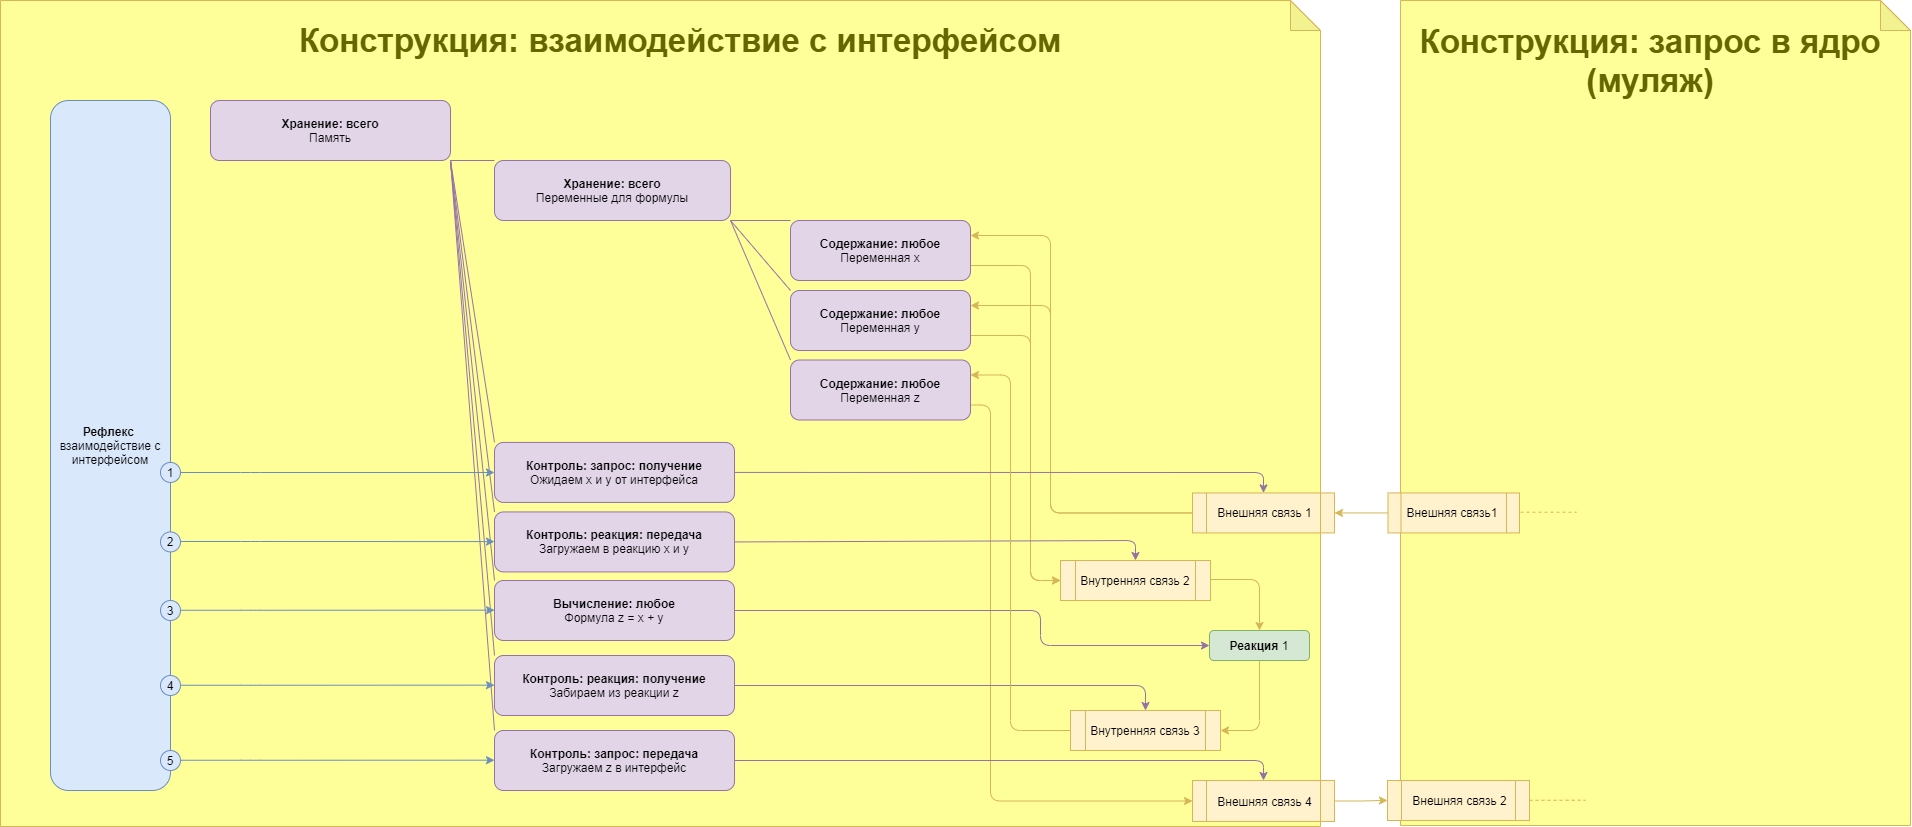
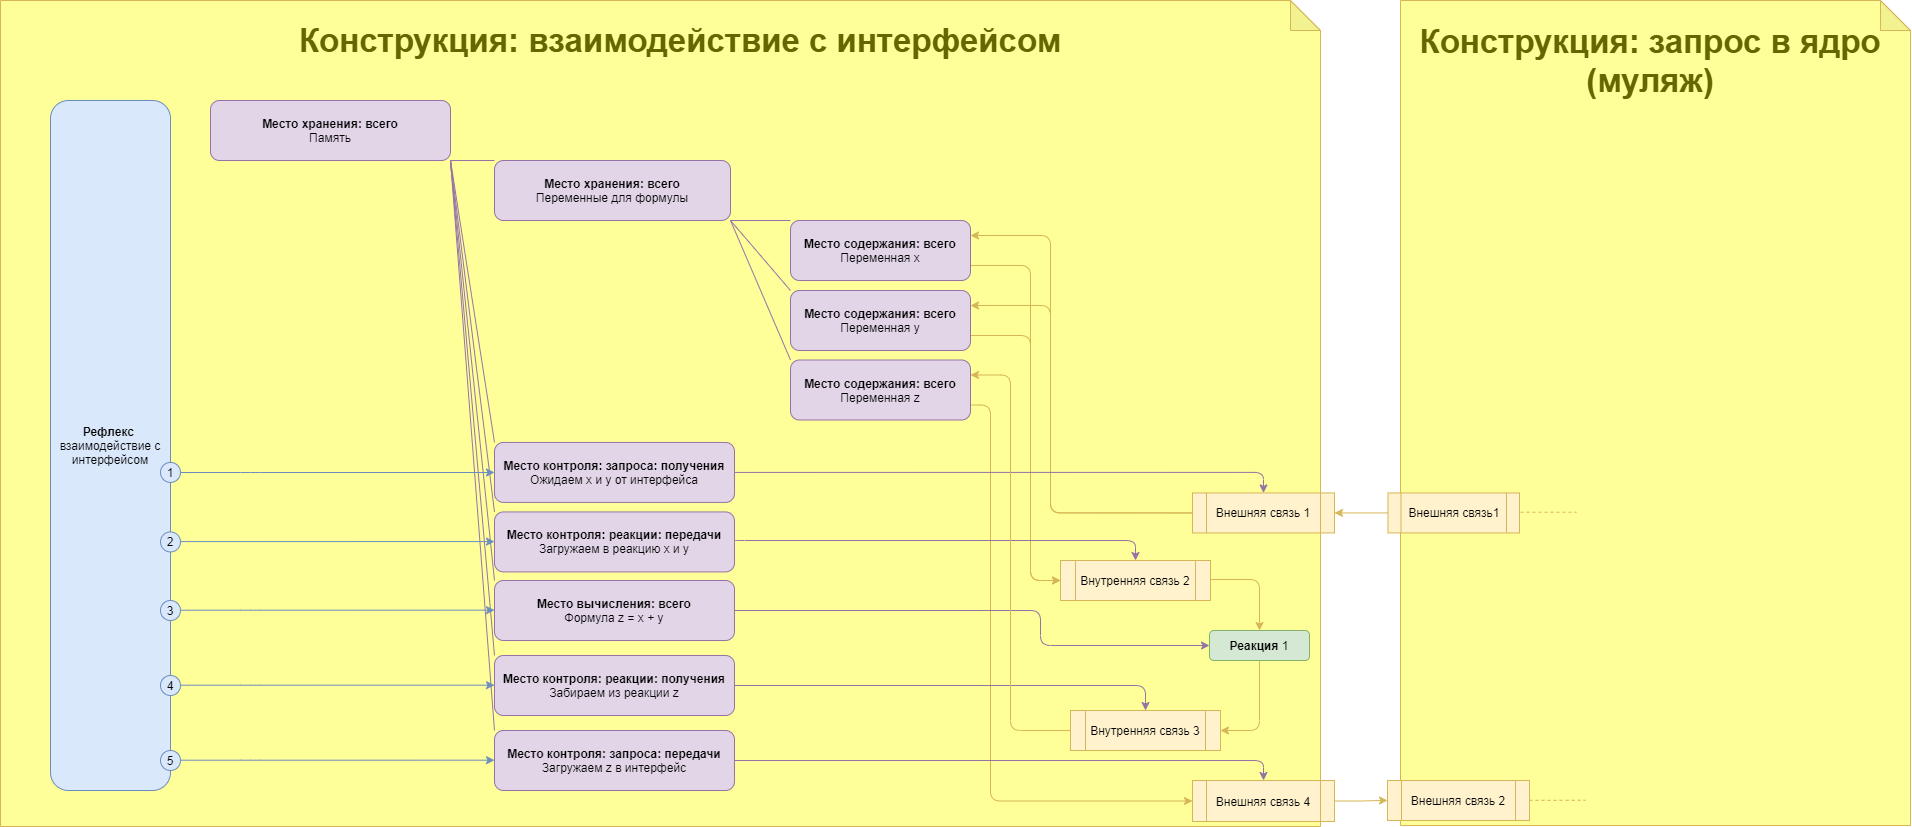
Процессор

diff --git a/README.md b/README.md
@@ -483,13 +483,13 @@ $project['Процессор'] = function($opportunities = []){
 
 1. Хранение: всего
 > благодаря которой проект сможет капсулировать роли
-2. Содержание: любое
+2. Содержание: всего
 > благодаря которой проект сможет запоминать информацию
-3. Вычисление: свободное
+3. Вычисление: всего
 > благодаря которой проект сможет выполнять логику
-4. Контроль: запросов: получение, передача
+4. Контроль: запросов: получения, передачи
 > благодаря которой проект сможет взаимодействовать с внешними конструкциями
-5. Контроль: реакций: получение, передача
+5. Контроль: реакций: получения, передачи
 > благодаря которой проект сможет взаимодействовать с внутренними реакциями
 
 Пример (<a target="_blank" href="https://github.com/it-architector/code.csdr/blob/master/%D0%9A%D0%B0%D1%80%D1%82%D0%B8%D0%BD%D0%BA%D0%B8/%D0%92%D0%B7%D0%B0%D0%B8%D0%BC%D0%BE%D0%B4%D0%B5%D0%B9%D1%81%D1%82%D0%B2%D0%B8%D0%B5%20%D1%8F%D0%B4%D1%80%D0%B0.png?raw=true">открыть в отдельном окне</a>):
